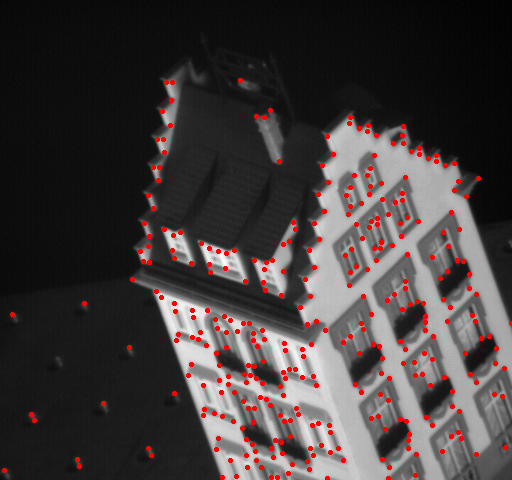
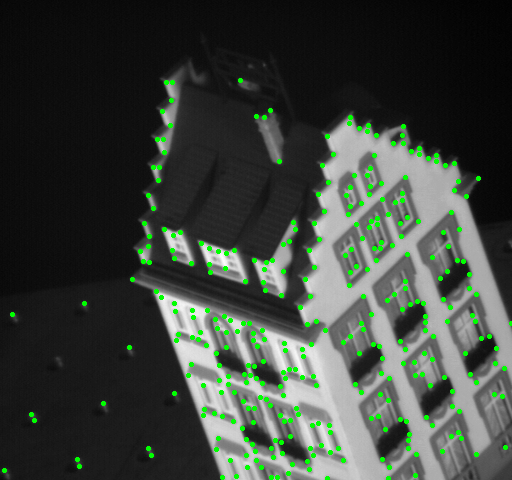
color to green

diff --git a/common.py b/common.py
@@ -95,7 +95,7 @@ def getKeypoints(img, tau, filter_size, sigma):
     for j in range(img.shape[1]):
       if harris_score[i,j] > tau:
         key_points.append(np.array([i,j],dtype=np.float64))
-        img_clr = cv2.circle(img_clr,(j,i),1, (0,0,255),2)
+        img_clr = cv2.circle(img_clr,(j,i),1, (0,255,0),2)
         num_of_points +=1
 
   #convert key points to array of Nx2
